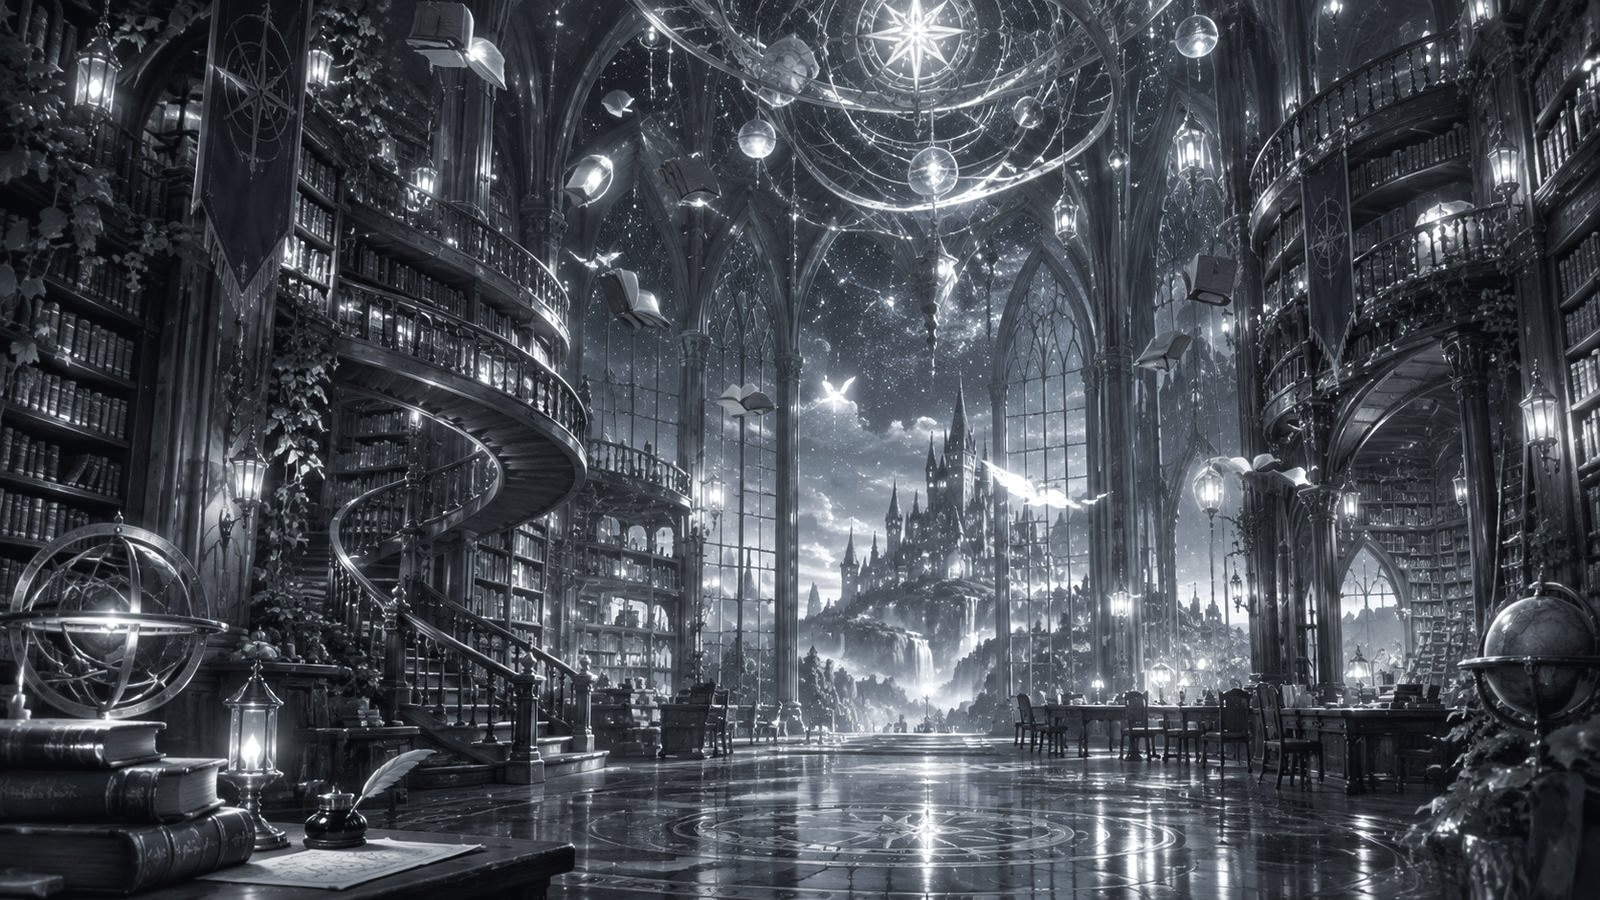
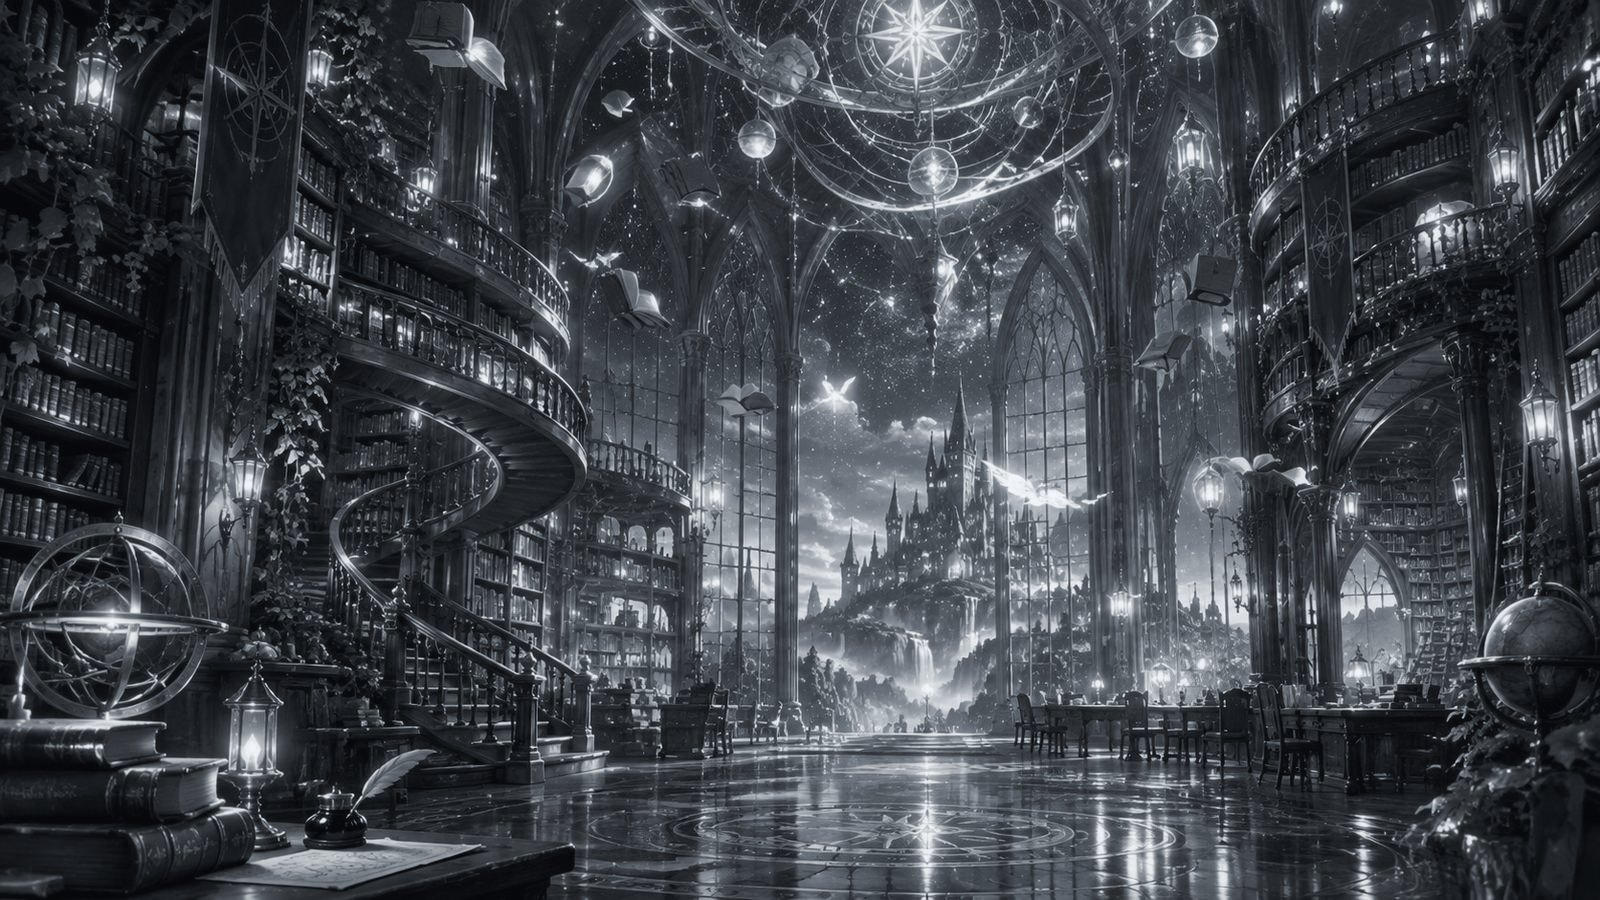
銀と白金の背景を差別化：銀は冷たい鋼のモノトーン、白金は虹色のオーロラと真珠の輝き（最上位）
Claude-Session: https://claude.ai/code/session_01EftAGzqa5a4WGGvn4eGGrQ

Changed region(s): [[0.8438, 0.6533, 0.875, 0.6844], [0.75, 0.6533, 0.7812, 0.6844], [0.5625, 0.0311, 0.5938, 0.0622]]

diff --git a/index.html b/index.html
@@ -2043,7 +2043,7 @@
         <button onclick="openCouponModal()" title="秘密の鍵"
             style="background:rgba(5,20,10,0.55);border:1px solid rgba(60,140,80,0.35);border-radius:20px;padding:3px 9px;font-size:11px;cursor:pointer;color:rgba(140,200,150,0.65);display:flex;align-items:center;gap:3px;transition:all 0.3s;font-family:'Noto Serif JP',serif;letter-spacing:0.03em;opacity:0.7;flex-shrink:0;">🗝</button>
         <button id="accountChip" onclick="Cloud.chipClick()" title="アカウント"></button>
-        <div style="font-size:9px;letter-spacing:0.12em;color:rgba(200,170,80,0.45);font-family:'Noto Serif JP',serif;text-align:center;flex:1;padding:0 6px;">Designed by Takahiro Iimura<br><span id="appVersion" style="opacity:.8;">ver. 2026.11.02-0010</span></div>
+        <div style="font-size:9px;letter-spacing:0.12em;color:rgba(200,170,80,0.45);font-family:'Noto Serif JP',serif;text-align:center;flex:1;padding:0 6px;">Designed by Takahiro Iimura<br><span id="appVersion" style="opacity:.8;">ver. 2026.11.02-0100</span></div>
         <button id="bgmBtn" onclick="toggleBGM()" title="BGM ON/OFF"
             style="background:rgba(30,20,5,0.7);border:1.5px solid rgba(220,170,50,0.7);border-radius:20px;padding:3px 10px;font-size:12px;cursor:pointer;color:rgba(220,170,50,0.85);display:flex;align-items:center;gap:4px;transition:all 0.3s;font-family:'Noto Serif JP',serif;letter-spacing:0.05em;flex-shrink:0;">🔇 BGM</button>
     </div>
@@ -8165,7 +8165,7 @@ const Cloud = (function () {
     function candidatesForNotebook() {
         const nbKey = (typeof currentNB !== 'undefined' && currentNB) ? currentNB.key : '';
         return [
-            ...(nbKey && nbKey !== 'A1' ? ['./background/bg_' + nbKey + '.jpg'] : []),
+            ...(nbKey && nbKey !== 'A1' ? ['./background/bg_' + nbKey + '.jpg?v=20261102b'] : []),
             ...BASE_CANDIDATES,
         ];
     }

diff --git a/tools/make_backgrounds.py b/tools/make_backgrounds.py
@@ -25,9 +25,9 @@ SRC = ROOT / "background" / "bg.jpg"
 
 GRADES = {
     "A2": dict(shadow="#1c0904", mid="#a8522a", high="#ffd9b0", mix=0.62, glow=1.08, sat=1.05),   # 銅
-    "B1": dict(shadow="#07090d", mid="#7c8794", high="#f4f7fb", mix=0.88, glow=1.12, sat=0.35),   # 銀
+    "B1": dict(shadow="#06080b", mid="#6d7680", high="#e6eaee", mix=0.92, glow=1.06, sat=0.15),   # 銀（冷たい鋼のモノトーン）
     "B2": dict(shadow="#1a0d02", mid="#c4891a", high="#fff3c0", mix=0.68, glow=1.12, sat=0.85),   # 金
-    "PT": dict(shadow="#110e22", mid="#a69ed0", high="#fcf9ff", mix=0.72, glow=1.14, sat=0.45),   # 白金（真珠のような淡い紫白）
+    "PT": dict(shadow="#0d0a26", mid="#8a7fe0", high="#ffffff", mix=0.66, glow=1.38, sat=0.6, aurora=0.78),   # 白金（最上位：虹色のオーロラ＋真珠の輝き）
 }
 
 
@@ -36,7 +36,7 @@ def hex2rgb(h):
     return np.array([int(h[i:i + 2], 16) for i in (0, 2, 4)], dtype=np.float32) / 255.0
 
 
-def grade(img: np.ndarray, shadow, mid, high, mix, glow, sat):
+def grade(img: np.ndarray, shadow, mid, high, mix, glow, sat, aurora=0.0):
     luma = (0.299 * img[..., 0] + 0.587 * img[..., 1] + 0.114 * img[..., 2])[..., None]
     s, m, h = hex2rgb(shadow), hex2rgb(mid), hex2rgb(high)
     lo = np.clip(luma * 2, 0, 1)            # 0〜0.5 の明るさ → shadow→mid
@@ -48,6 +48,16 @@ def grade(img: np.ndarray, shadow, mid, high, mix, glow, sat):
     out = base * (1 - mix) + gmap * mix
     # 明るい部分をほんのり持ち上げる（光の演出）
     out = out + np.clip(luma - 0.6, 0, 1) * (glow - 1.0) * 2.0
+    if aurora:
+        # 白金だけ：場所によって色相が流れる虹色（シアン→紫→桃→金）を中間〜明部にのせ、真珠のような輝きにする
+        H, W = luma.shape[:2]
+        yy, xx = np.mgrid[0:H, 0:W].astype(np.float32)
+        t = (xx / W * 0.9 + yy / H * 0.6 + 0.15 * np.sin(xx / W * 6.0 + yy / H * 3.0))[..., None]
+        ph = 2 * np.pi * t
+        rainbow = 0.58 + 0.42 * np.concatenate([np.cos(ph), np.cos(ph - 2.1), np.cos(ph - 4.2)], axis=2)
+        w = np.clip((luma - 0.12) * 1.6, 0, 1) * aurora
+        out = out * (1 - w) + (out * 0.45 + rainbow * 0.55 * np.clip(luma * 1.4 + 0.25, 0, 1.15)) * w
+        out = out + np.clip(luma - 0.7, 0, 1) * 0.6        # 強い光は白く飛ばして輝きを出す
     return np.clip(out, 0, 1)
 
 
